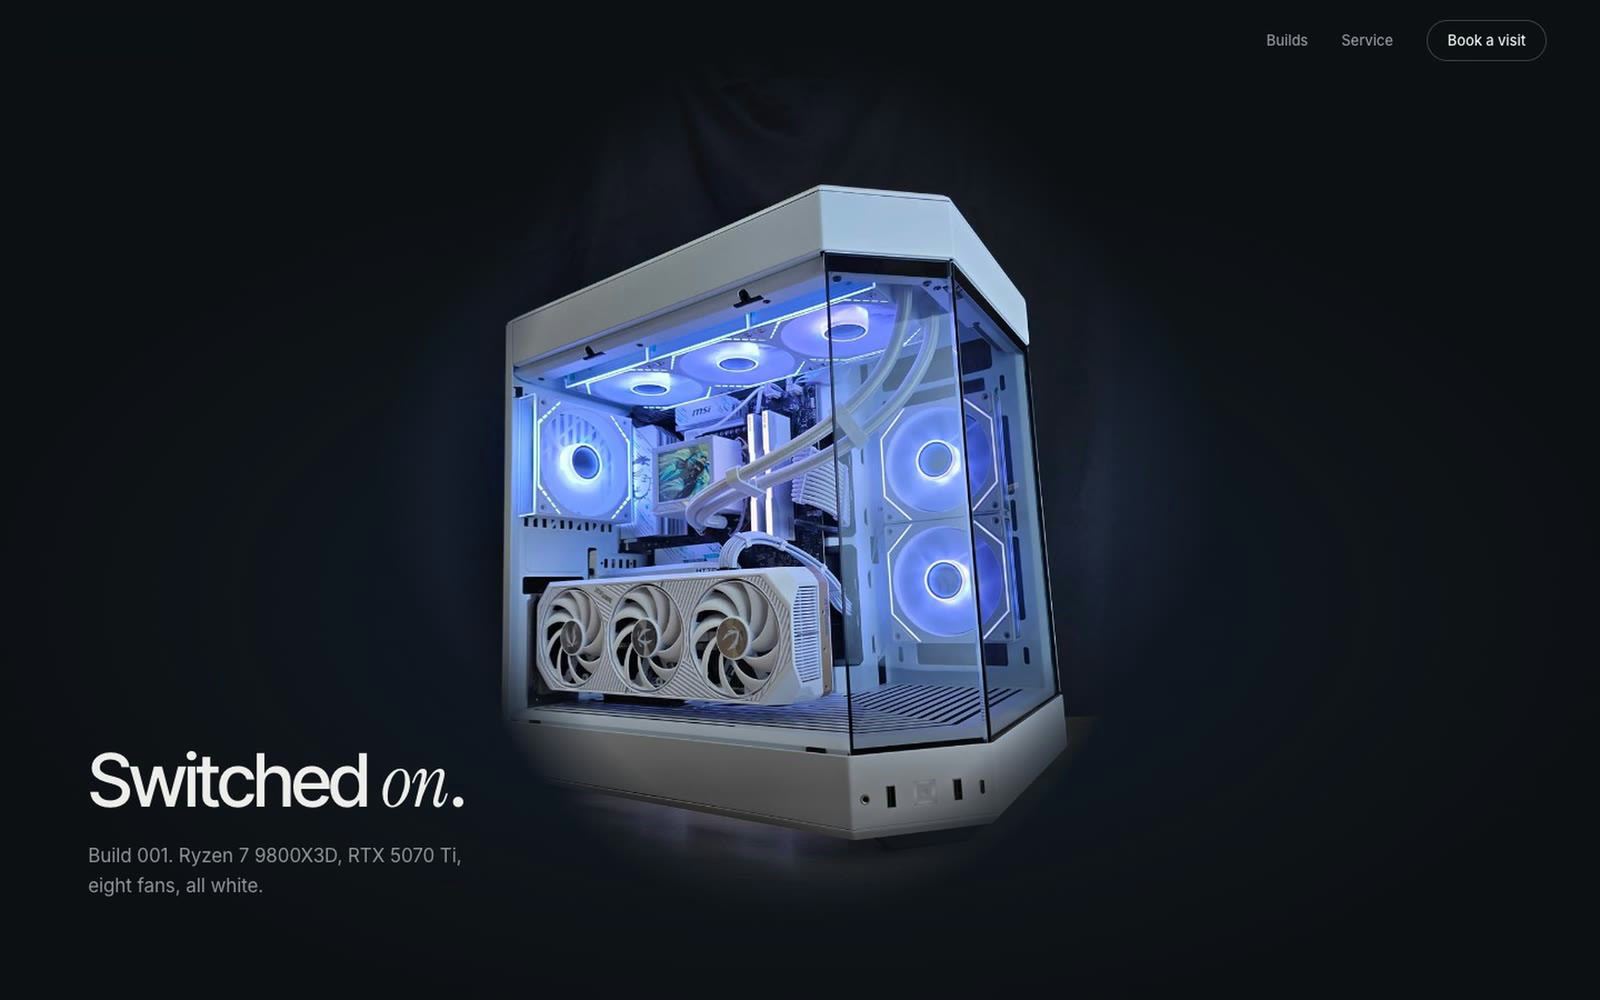
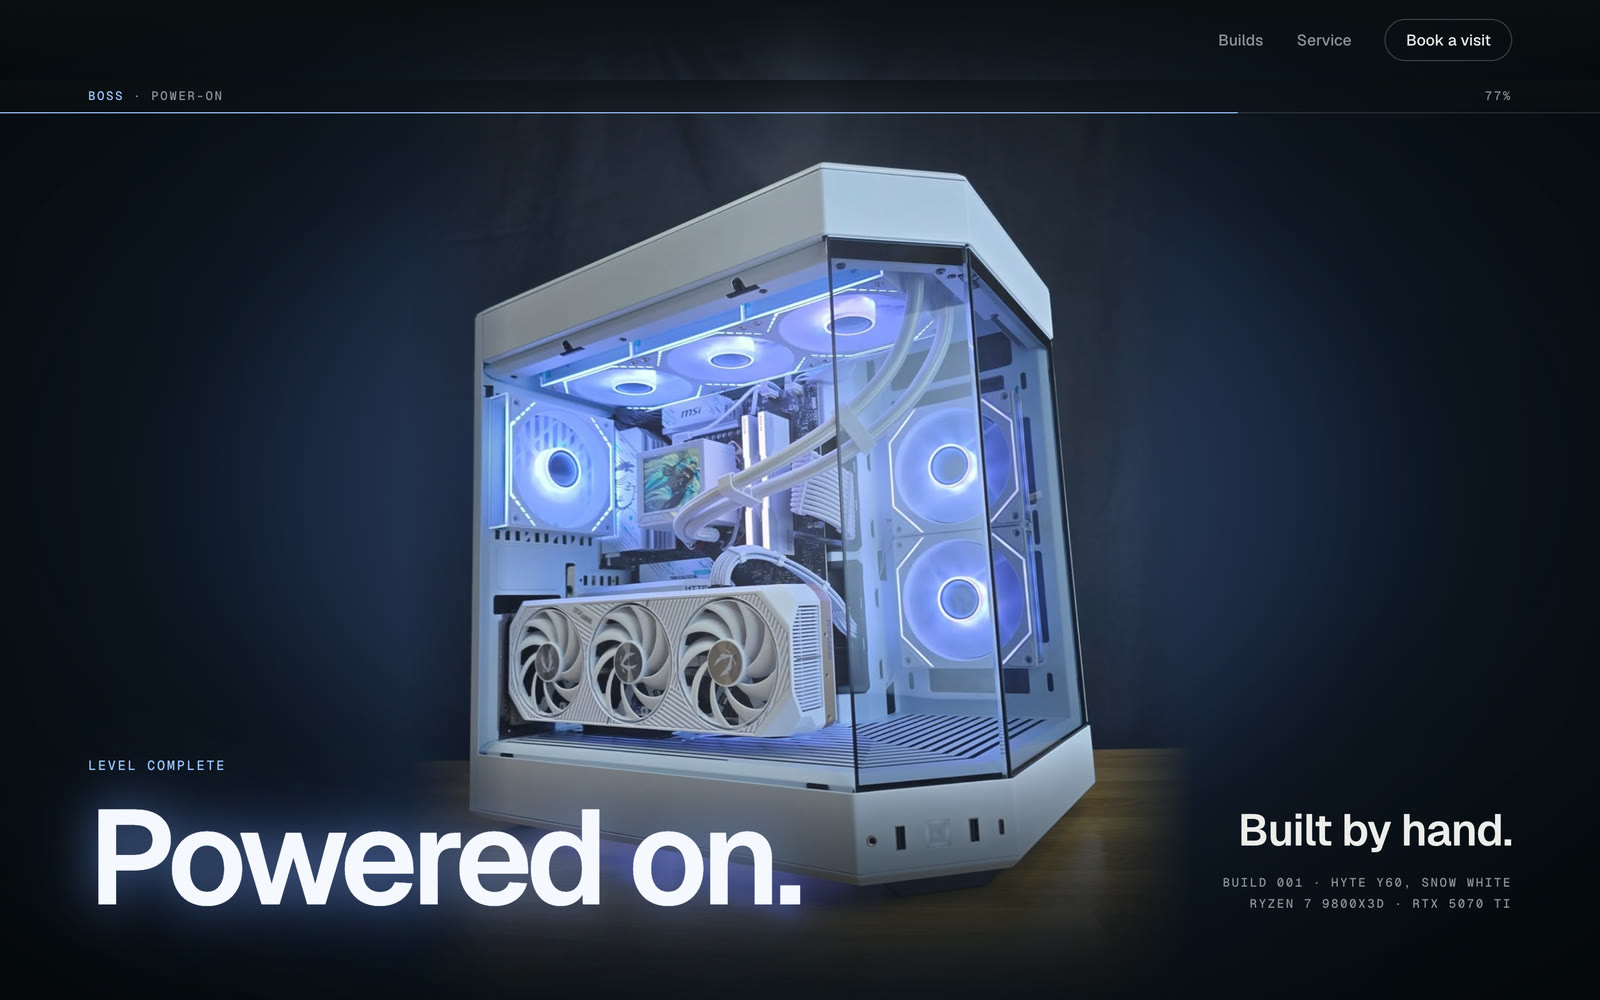
Henry's scroll-craft 0.2.0: the second design pass and new pictures
Adds the design pass made after the Ep6 test: one type family (Geist) with
tracking that tightens as type grows, the build full screen, a thin line from
each part to its label (never more than three), and a power-on sweep. SKILL.md
makes it the default; figma-design.md has the numbers. New hero, parts and
phone pictures from that site, shop name and location hidden.

diff --git a/README.md b/README.md
@@ -9,7 +9,7 @@ switches on, and the last frame is their real photo.
 [![MIT](https://img.shields.io/badge/licence-MIT-blue.svg)](LICENSE)
 [![Claude Code skill](https://img.shields.io/badge/Claude%20Code-skill-d97757.svg)](plugins/henry/skills/henry-scroll-craft/SKILL.md)
 
-![A white gaming PC switched on, lit blue, on a dark page with the headline "Switched on."](media/hero.jpg)
+![A white gaming PC powered on, lit blue, on a dark page with the headline "Powered on."](media/hero.jpg)
 
 *Concept built for a Singapore PC shop in Cooked or Cracked Ep6. Not affiliated with the shop.*
 
@@ -25,8 +25,8 @@ switches on, and the last frame is their real photo.
 - **Writes the video prompt for you.** One prompt, one photo, one 8-second clip
   on the video model you already use.
 - **Builds the page** on Nate Herk's scroll engine. The clip plays backwards
-  under the scroll, a label appears for each part on the exact frame it goes in,
-  and the product switches on at the end.
+  under the scroll, a label draws in for each part on the exact frame it goes in,
+  and the product powers on at the end.
 - **Shows their real work.** Their other products, their public facts, and one
   WhatsApp or booking button.
 - **Checks itself.** Screenshots on desktop, phone and reduced motion, and a
@@ -51,7 +51,7 @@ is their real photo. Played backwards, that frame is the last thing the visitor
 sees. Ask the model to build it forwards instead and the last frame is the
 model's guess.
 
-![Four phone screens: the empty case with the headline, the processor going in, the cooler going in, and the PC switched on.](media/phone-frames.jpg)
+![Four phone screens: the opening headline over the empty case, the motherboard and processor going in with their labels, the graphics card going in, and the PC powered on.](media/phone-frames.jpg)
 
 *Concept built for a Singapore PC shop in Cooked or Cracked Ep6. Not affiliated with the shop.*
 
@@ -134,7 +134,7 @@ Built and checked on macOS.
 
 ## Example: a PC shop with no website
 
-![A dark page with a white PC case half built and a label reading "Memory, 32 GB" with a thin line to the part. A counter reads 04 of 08.](media/parts-list.jpg)
+![A white PC case almost built on a dark page, with thin lines from the cooler, the fans and the graphics card to their labels. A counter reads Assembling 7/8.](media/parts-list.jpg)
 
 *Concept built for a Singapore PC shop in Cooked or Cracked Ep6. Not affiliated with the shop.*
 
@@ -150,11 +150,16 @@ shots of their builds, and no website.
 | Total | About 18 minutes from an empty Figma file to a recorded site. |
 
 The first pass looked tacky. One more ask, "make it seamless and premium",
-fixed it: the page colour matched to their photo backdrop, one accent colour,
-Inter Tight with an italic serif, and film grain to tie the AI clip and the
-real photos together.
+fixed most of it: the page colour matched to their photo backdrop, one accent
+colour, and film grain to tie the AI clip and the real photos together.
 
-<img src="media/phone-scroll.webp" width="300" alt="A phone scrolling the site: the empty PC case fills with parts one by one and switches on with blue light.">
+The pictures on this page are from a second design pass, done after the timed
+test and not counted in the 18 minutes: one type family (Geist), the build full
+screen, a thin line from each part to its label, and a light sweep when it
+powers on. The rules are in
+[figma-design.md](plugins/henry/skills/henry-scroll-craft/references/figma-design.md).
+
+<img src="media/phone-scroll.webp" width="300" alt="A phone scrolling the site: the empty PC case fills with parts one by one, each with a label, and powers on with blue light.">
 
 *Concept built for a Singapore PC shop in Cooked or Cracked Ep6. Not affiliated with the shop.*
 
@@ -182,7 +187,7 @@ plugins/henry/skills/henry-scroll-craft/
 ├── references/
 │   ├── local-business-brief.md  the eight questions, picking the hero photo, BRIEF.md template
 │   ├── reverse-teardown.md      the prompt template, settings, three more examples
-│   ├── figma-design.md          the Figma step and the premium pass
+│   ├── figma-design.md          the Figma step and both design passes
 │   ├── page-order.md            the feeling curve and the section order
 │   ├── sync-to-clip.md          labels timed to the clip, the switch-on, the real photo
 │   ├── devices.md               the engine's scroll devices (Nate Herk)

diff --git a/plugins/henry/skills/henry-scroll-craft/references/figma-design.md b/plugins/henry/skills/henry-scroll-craft/references/figma-design.md
@@ -73,3 +73,20 @@ What changed between the two passes:
 
 If the user calls a pass cheap, ask what they are comparing it to, then make
 the changes in this table before trying anything else.
+
+## When the premium pass still looks off
+
+Ep6 needed a second pass after the timed test. The viewer said the fonts and
+the kerning looked bad and the build did not land. This fixed both:
+
+| Premium pass | Second pass |
+|---|---|
+| Inter Tight plus an italic serif word | One family. Geist 600 for headlines, 400 or 500 for text. Geist Mono only for small uppercase labels, 11 to 13 px with 0.14em tracking |
+| Default tracking | Tracking tightens as type grows: about -0.045em at 88 to 120 px, -0.035em at 56 to 64 px, -0.02em at 28 to 40 px, 0 for body text at 17 px. Kerning on |
+| Lines break wherever | `text-wrap: balance` on headlines, phrase breaks, never one word alone on a line. Body text at most 60 characters a line |
+| The clip in a column | The clip fills the screen height, soft edges, a soft light from above, a deep vignette |
+| One label at a time | A 1 px line draws from the part to its label: type in mono over the name. Newest bright, the two before it dimmed, never more than three. On a phone the labels stack under the product, no lines |
+| A plain switch-on | A short burst from the product, one light band across the screen, the page shifts to the product's light colour, then a small "Level complete" over a big two-word line |
+
+Write the time the second pass took separately from the timed build. Do not
+fold it into the headline number.

diff --git a/plugins/henry/skills/henry-scroll-craft/SKILL.md b/plugins/henry/skills/henry-scroll-craft/SKILL.md
@@ -167,15 +167,22 @@ Code for steps 2 to 4, and how to read the part times off a contact sheet:
 [references/sync-to-clip.md](references/sync-to-clip.md).
 
 **The look.** My first pass looked tacky. A second ask for "seamless and
-premium" fixed it. That pass is now the default:
+premium" fixed most of it, and a later pass fixed the type and the build. Both
+are now the default:
 
 - Page colour sampled from their photo backdrop, so the product sits in the page
   with no visible box. Feather the photo edges with a mask.
 - One accent colour, taken from the product itself.
-- Inter Tight for headings, one italic serif word per headline, Inter for text.
+- One type family: Geist for headlines and text, Geist Mono only for small
+  uppercase labels. Tracking tightens as type grows, and headlines break on
+  phrases. No italic serif word in a sans headline.
+- The build fills the screen. Each label draws a thin line from its part, and
+  never more than three labels show at once.
 - Film grain over everything at about 5% opacity. It ties the AI clip and the
   real photos into one picture.
 - Text beside the product, never on it.
+
+The numbers for both passes are in [references/figma-design.md](references/figma-design.md).
 
 Theme with the six `--sc-*` variables and two fonts (see the template). The
 design floor for spacing, type and contrast is [references/taste.md](references/taste.md).

diff --git a/NOTICE.md b/NOTICE.md
@@ -59,3 +59,10 @@ them.
 The images in `media/` are frames from a concept site built in Cooked or
 Cracked Ep6 for a Singapore PC shop. The product photos in them belong to that
 shop. The concept is not affiliated with the shop.
+
+## Versions
+
+- 0.1.0 (3 October 2026): first release.
+- 0.2.0 (3 October 2026): the second design pass (one type family, full-screen
+  build, line labels, power-on) added to `SKILL.md` and
+  `references/figma-design.md`, and new pictures in `media/`.

diff --git a/plugins/henry/skills/henry-scroll-craft/references/sync-to-clip.md b/plugins/henry/skills/henry-scroll-craft/references/sync-to-clip.md
@@ -64,7 +64,7 @@ Ep6, for scale (an 8-second clip plus a 1.6-second hold):
     </ol>
 
     <div class="outro">
-      <h2>Switched <em>on</em>.</h2>
+      <h2>Powered on.</h2>
     </div>
   </div>
 </section>
